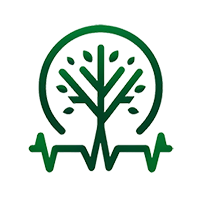
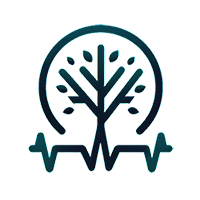
feat(home): added dark mode

Changed region(s): [[0.12, 0.12, 0.87, 0.87], [0.33, 0.27, 0.39, 0.33]]

diff --git a/app/pages/index.vue b/app/pages/index.vue
@@ -7,9 +7,10 @@ import AppFooter from '~/components/AppFooter.vue'
 import TButton from '~/components/ui/TButton.vue'
 
 const store = useStore()
+const router = useRouter()
 const isLoading = ref<boolean>(true)
 const isConfigLoaded = computed(() => store.configLoaded)
-const router = useRouter()
+const darkMode = computed(() => store.darkMode)
 
 const { fileInput, loadFromModel, loadFromFile, loadFromUrl, loadFromUserInput } = useConfig()
 
@@ -52,6 +53,18 @@ const loadConfigFromUserInput = async () => {
   await loadFromUserInput(sample.value)
 }
 
+const toggleDarkMode = () => {
+  store.darkMode = !store.darkMode
+
+  if (store.darkMode) {
+    document.documentElement.classList.add('dark')
+  }
+
+  if (!store.darkMode) {
+    document.documentElement.classList.remove('dark')
+  }
+}
+
 const observeSections = () => {
   const sections = document.querySelectorAll('.section')
   const observer = new IntersectionObserver(
@@ -74,6 +87,10 @@ const observeSections = () => {
 }
 
 onMounted(() => {
+  if (store.darkMode) {
+    document.documentElement.classList.add('dark')
+  }
+
   if (isConfigLoaded.value) {
     router.push('/viewport')
   }
@@ -86,20 +103,67 @@ onMounted(() => {
 </script>
 
 <template>
-  <div class="relative w-full min-h-screen overflow-auto">
+  <div
+    :class="{ dark: darkMode }"
+    class="relative w-full min-h-screen overflow-auto bg-neutral-50 dark:bg-neutral-900 text-neutral-900 dark:text-neutral-50"
+  >
+    <button
+      class="fixed top-4 right-4 p-2 bg-neutral-200 dark:bg-neutral-700 text-neutral-900 dark:text-neutral-50 rounded z-50"
+      aria-label="dark mode"
+      @click="toggleDarkMode"
+    >
+      <svg
+        v-if="darkMode"
+        class="w-6 h-6"
+        aria-hidden="true"
+        xmlns="http://www.w3.org/2000/svg"
+        width="24"
+        height="24"
+        fill="none"
+        viewBox="0 0 24 24"
+      >
+        <path
+          stroke="currentColor"
+          stroke-linecap="round"
+          stroke-linejoin="round"
+          stroke-width="2"
+          d="M12 5V3m0 18v-2M7.05 7.05 5.636 5.636m12.728 12.728L16.95 16.95M5 12H3m18 0h-2M7.05 16.95l-1.414 1.414M18.364 5.636 16.95 7.05M16 12a4 4 0 1 1-8 0 4 4 0 0 1 8 0Z"
+        />
+      </svg>
+      <svg
+        v-else
+        class="w-6 h-6"
+        aria-hidden="true"
+        xmlns="http://www.w3.org/2000/svg"
+        width="24"
+        height="24"
+        fill="none"
+        viewBox="0 0 24 24"
+      >
+        <path
+          stroke="currentColor"
+          stroke-linecap="round"
+          stroke-linejoin="round"
+          stroke-width="2"
+          d="M12 21a9 9 0 0 1-.5-17.986V3c-.354.966-.5 1.911-.5 3a9 9 0 0 0 9 9c.239 0 .254.018.488 0A9.004 9.004 0 0 1 12 21Z"
+        />
+      </svg>
+    </button>
+
     <div class="background-grid fixed inset-0 z-0 grid grid-cols-2 sm:grid-cols-3 lg:grid-cols-4 gap-4 p-4">
-      <div class="bg-purple-300 rounded-lg opacity-30" />
-      <div class="bg-yellow-300 rounded-lg opacity-30" />
-      <div class="bg-blue-300 rounded-lg col-span-2 opacity-30" />
-      <div class="bg-pink-300 rounded-lg col-span-2 opacity-30" />
-      <div class="bg-green-300 rounded-lg opacity-30" />
-      <div class="bg-red-300 rounded-lg opacity-30" />
-      <div class="bg-indigo-300 rounded-lg opacity-30" />
-      <div class="bg-teal-300 rounded-lg opacity-30" />
-      <div class="bg-orange-300 rounded-lg opacity-30" />
-      <div class="bg-lime-300 rounded-lg opacity-30" />
+      <div class="bg-purple-300 dark:bg-purple-700 rounded-lg opacity-30" />
+      <div class="bg-yellow-300 dark:bg-yellow-700 rounded-lg opacity-30" />
+      <div class="bg-blue-300 dark:bg-blue-700 col-span-2 opacity-30" />
+      <div class="bg-pink-300 dark:bg-pink-700 col-span-2 opacity-30" />
+      <div class="bg-green-300 dark:bg-green-700 rounded-lg opacity-30" />
+      <div class="bg-red-300 dark:bg-red-700 rounded-lg opacity-30" />
+      <div class="bg-indigo-300 dark:bg-indigo-700 rounded-lg opacity-30" />
+      <div class="bg-teal-300 dark:bg-teal-700 rounded-lg opacity-30" />
+      <div class="bg-orange-300 dark:bg-orange-700 rounded-lg opacity-30" />
+      <div class="bg-lime-300 dark:bg-lime-700 rounded-lg opacity-30" />
     </div>
-    <div class="absolute h-full inset-0 z-10 bg-neutral-600 opacity-90" />
+
+    <div class="absolute h-full inset-0 z-10 bg-neutral-300 dark:bg-neutral-900 opacity-80 dark:opacity-90" />
 
     <div
       v-if="!isLoading"
@@ -109,21 +173,18 @@ onMounted(() => {
         name="fade"
         appear
       >
-        <section class="text-center text-neutral-100 space-y-6">
-          <h1 class="text-3xl font-semibold">
-            Welcome to TreePulse! <img
-              src="/tree-pulse-white.webp"
-              alt="TreePulse"
-              class="w-14 h-14 mb-4 inline-block"
-              aria-label="TreePulse"
-            >
+        <section class="text-center space-y-6">
+          <h1 class="text-4xl font-semibold drop-shadow-lg bg-clip-text text-transparent bg-gradient-to-r from-red-400 via-blue-400 to-green-500 dark:from-red-300 dark:via-blue-300 dark:to-green-300">
+            Welcome to TreePulse!
           </h1>
-          <h2 class="text-lg text-neutral-300 max-w-3xl mx-auto">
+
+          <h2 class="text-lg text-neutral-600 dark:text-neutral-300 max-w-3xl mx-auto">
             It looks like you haven't loaded any configuration yet. Click one of the buttons below to load sample data and see TreePulse in action!
           </h2>
+
           <div class="mt-8 animate-bounce">
             <svg
-              class="w-6 h-6 text-neutral-300 mx-auto"
+              class="w-6 h-6 mx-auto"
               fill="none"
               stroke="currentColor"
               viewBox="0 0 24 24"
@@ -157,30 +218,28 @@ onMounted(() => {
 
             <div class="flex flex-col w-full md:w-fit md:flex-row md:space-x-4 text-center space-y-6 md:space-y-0">
               <TButton
-                class="bg-neutral-900 px-6 py-2 min-w-fit hover:bg-neutral-800 text-sm"
+                class="bg-neutral-900 dark:bg-neutral-200 px-6 py-2 min-w-fit hover:bg-neutral-800 dark:hover:bg-neutral-300 text-sm dark:text-black"
                 aria-label="Load Project Migration Data"
                 :is-active="false"
                 @click="loadConfigFromApi('project-migration')"
               >
-                project migration
+                Project Migration
               </TButton>
-
               <TButton
-                class="bg-neutral-900 px-6 py-2 min-w-fit hover:bg-neutral-800 text-sm"
+                class="bg-neutral-900 dark:bg-neutral-200 px-6 py-2 min-w-fit hover:bg-neutral-800 dark:hover:bg-neutral-300 text-sm dark:text-black"
                 aria-label="Load Bug Tracking Data"
                 :is-active="false"
                 @click="loadConfigFromApi('bug-tracking')"
               >
-                bug tracking
+                Bug Tracking
               </TButton>
-
               <TButton
-                class="bg-neutral-900 px-6 py-2 min-w-fit hover:bg-neutral-800 text-sm"
+                class="bg-neutral-900 dark:bg-neutral-200 px-6 py-2 min-w-fit hover:bg-neutral-800 dark:hover:bg-neutral-300 text-sm dark:text-black"
                 aria-label="Load Recruitment Data"
                 :is-active="false"
                 @click="loadConfigFromApi('recruitment')"
               >
-                recruitment
+                Recruitment
               </TButton>
             </div>
           </div>
@@ -200,12 +259,12 @@ onMounted(() => {
 
             <div class="flex flex-col w-full md:w-fit md:flex-row md:space-x-4 space-y-6 md:space-y-0">
               <TButton
-                class="bg-neutral-900 px-6 py-2 min-w-fit hover:bg-neutral-800 text-sm"
+                class="bg-neutral-900 dark:bg-neutral-200 px-6 py-2 min-w-fit hover:bg-neutral-800 dark:hover:bg-neutral-300 text-sm dark:text-black"
                 aria-label="Load Project Migration Data"
                 :is-active="false"
                 @click="($refs.fileInput as HTMLInputElement).click()"
               >
-                upload file
+                Upload File
               </TButton>
             </div>
 
@@ -213,17 +272,16 @@ onMounted(() => {
               <input
                 v-model="url"
                 placeholder="https://"
-                class="bg-neutral-700 text-white px-4 py-2 rounded-md text-sm w-full md:w-2/3"
+                class="bg-neutral-200 text-neutral-900 dark:bg-neutral-700 dark:text-white px-4 py-2 rounded-md text-sm w-full md:w-2/3"
               >
-
               <TButton
-                class="bg-neutral-900 px-6 py-2 w-full md:w-1/3 hover:bg-neutral-800 text-sm disabled:cursor-not-allowed"
+                class="bg-neutral-900 dark:bg-neutral-200 px-6 py-2 w-full md:w-1/3 hover:bg-neutral-800 dark:hover:bg-neutral-300 text-sm dark:text-black disabled:cursor-not-allowed"
                 aria-label="Load Configuration from URL"
                 :is-active="false"
                 :disabled="!url"
                 @click="loadConfigFromUrl(url)"
               >
-                load from url
+                Load from URL
               </TButton>
             </div>
           </div>
@@ -233,13 +291,13 @@ onMounted(() => {
               Load Custom Configuration
             </h3>
 
-            <div class="bg-neutral-700 text-white p-4 rounded-md text-sm max-w-3xl">
+            <div class="bg-neutral-200 text-neutral-900 dark:bg-neutral-700 dark:text-white p-4 rounded-md text-sm max-w-3xl">
               <textarea
                 v-model="sample"
-                class="w-full h-60 bg-neutral-700 text-sm p-2"
+                class="w-full h-60 bg-neutral-200 text-sm p-2 dark:bg-neutral-700 dark:text-white"
               />
 
-              <p class="text-neutral-300 mt-4">
+              <p class="text-neutral-600 mt-4 dark:text-neutral-300">
                 <strong>key:</strong> Unique identifier for the section or task<br>
                 <strong>name:</strong> Name of the section or task<br>
                 <strong>status:</strong> Current status of the section or task<br>
@@ -247,12 +305,12 @@ onMounted(() => {
               </p>
 
               <TButton
-                class="bg-neutral-900 px-6 py-2 min-w-fit hover:bg-neutral-800 text-sm mt-4"
+                class="bg-neutral-900 dark:bg-neutral-200 px-6 py-2 min-w-fit hover:bg-neutral-800 dark:hover:bg-neutral-300 text-sm mt-4 dark:text-black"
                 aria-label="Load Sample Data"
                 :is-active="false"
                 @click="loadConfigFromUserInput"
               >
-                load config
+                Load Config
               </TButton>
             </div>
 

diff --git a/app/components/AppFooter.vue b/app/components/AppFooter.vue
@@ -1,14 +1,12 @@
 <script setup lang="ts" />
 
 <template>
-  <footer
-    class="footer w-full text-center"
-  >
-    <p class="text-white text-sm flex justify-center items-center gap-2">
+  <footer class="footer w-full text-center py-4">
+    <p class="text-gray-900 dark:text-white text-sm flex justify-center items-center gap-2">
       <a
         href="https://heristop.github.io/about"
         target="_blank"
-        class="text-neutral-300 hover:text-neutral-400 transition-colors duration-300 font-bold"
+        class="text-gray-700 dark:text-gray-400 hover:text-gray-400 dark:hover:text-gray-500 transition-colors duration-300 font-bold"
       >@heristop</a>
     </p>
   </footer>

diff --git a/app/composables/store.ts b/app/composables/store.ts
@@ -37,6 +37,7 @@ export const useStore = defineStore('store', {
     minHeight: 10,
     display: 'name',
     statuses: ref<Status[]>(defaultStatus),
+    darkMode: false,
   }),
   persist: {
     storage: persistedState.localStorage,

diff --git a/nuxt.config.ts b/nuxt.config.ts
@@ -81,6 +81,7 @@ export default defineNuxtConfig({
   },
   tailwindcss: {
     config: {
+      darkMode: 'class', // or 'media'
       theme: {
         extend: {
           colors: {},
